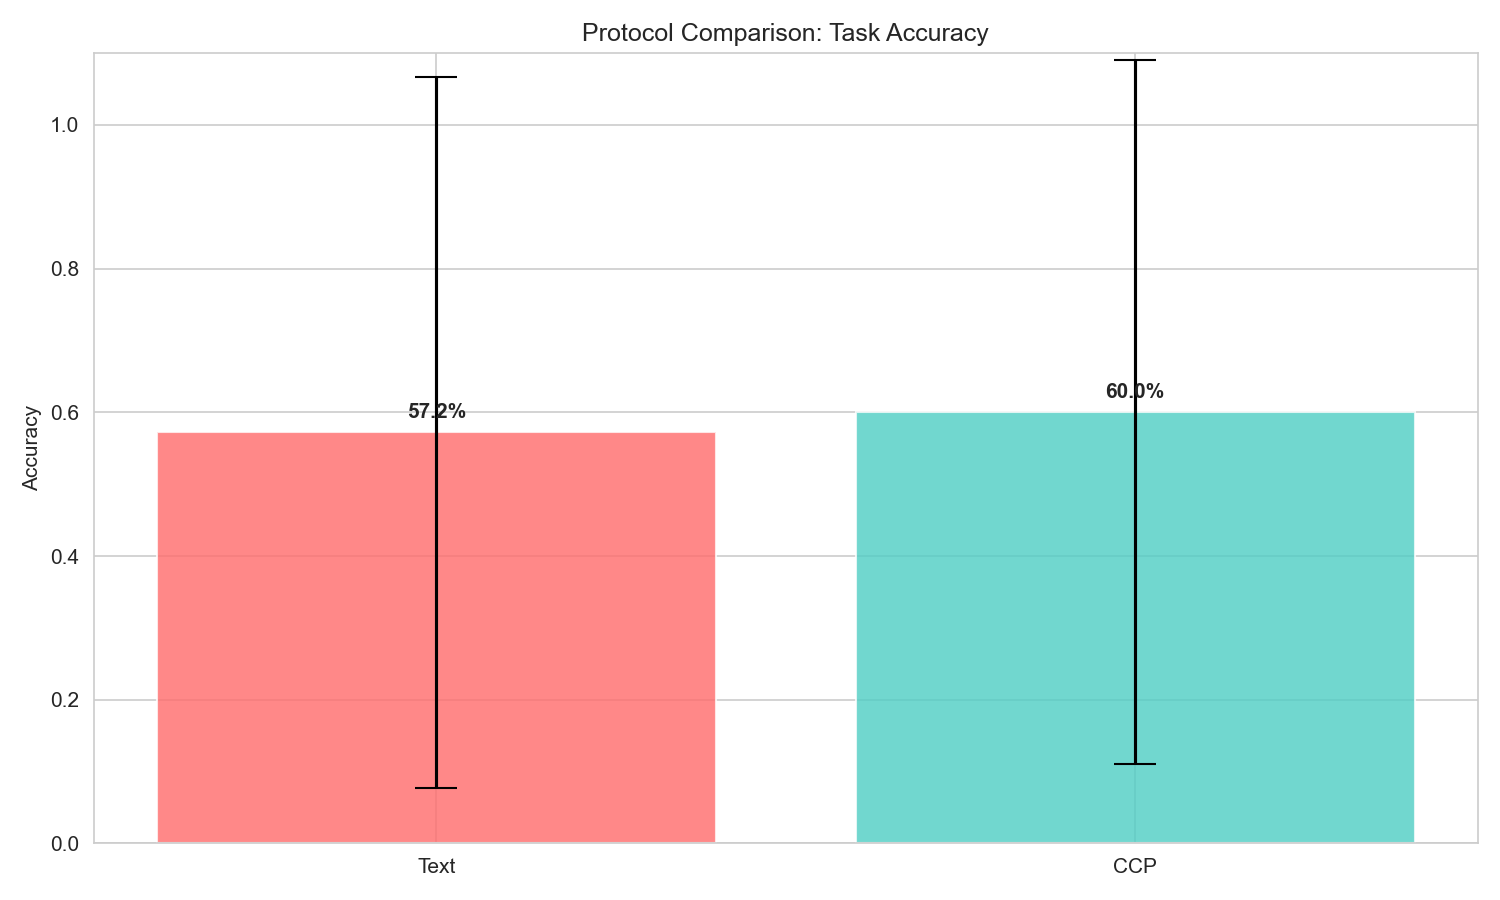
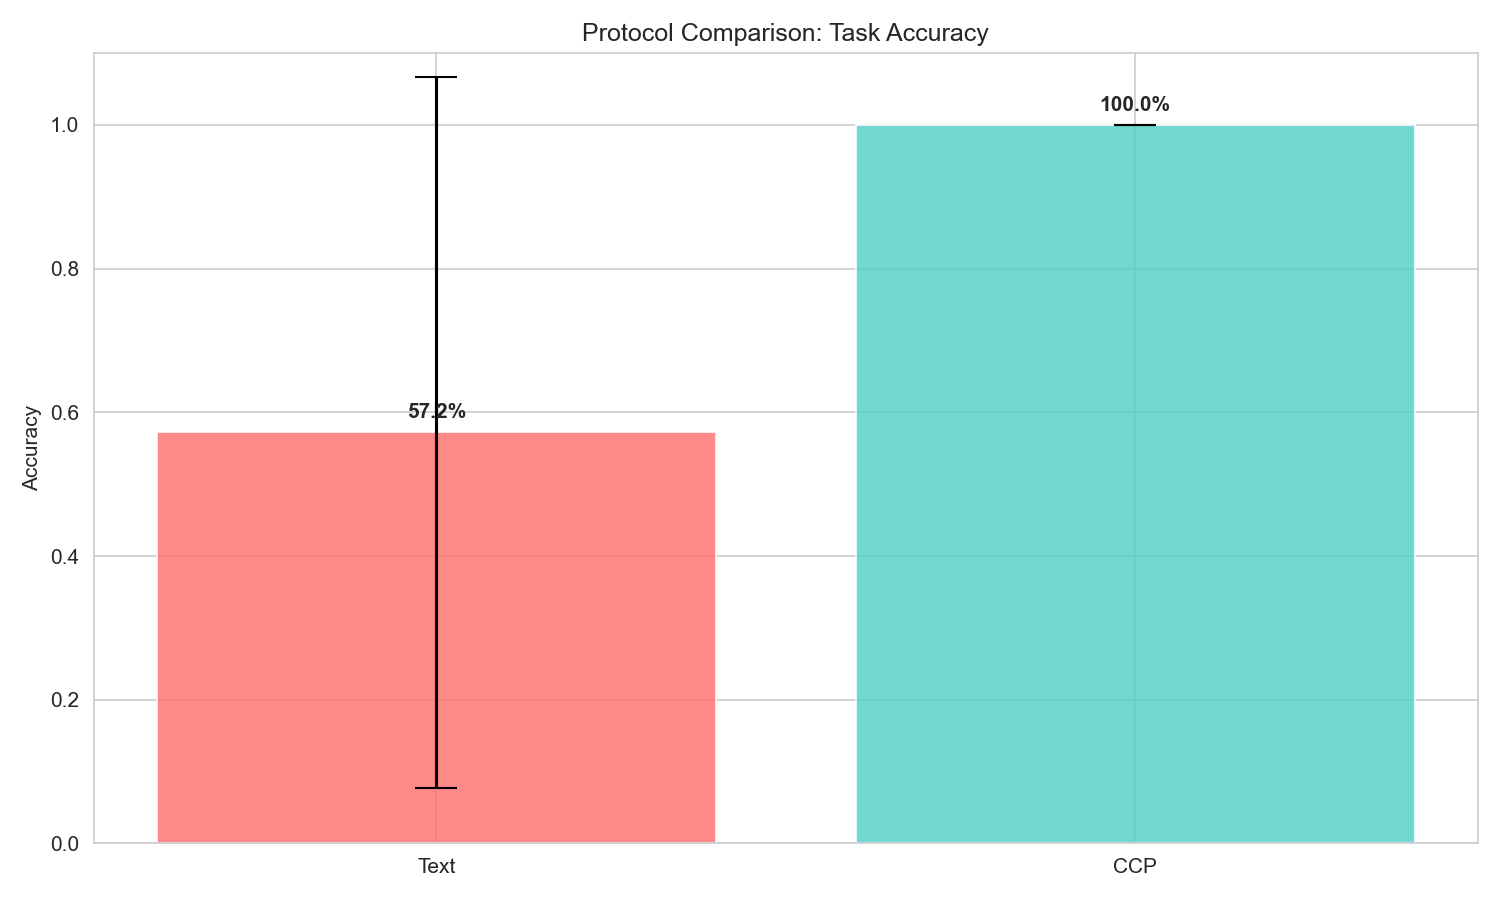
Refactor import statements to handle ImportError for protocols and core modules; update dataset management and experiment runner logic.

Changed region(s): [[0.552, 0.0622, 0.9507, 0.4667]]

diff --git a/ccp_a2a_thesis/agents/agent_c.py b/ccp_a2a_thesis/agents/agent_c.py
@@ -1,6 +1,9 @@
-from typing import Dict, Any, List
+from typing import Dict, Any
 from .base_agent import BaseAgent
-from protocols.fuzzy_matcher import FuzzyConstraintMatcher
+try:
+    from ..protocols.fuzzy_matcher import FuzzyConstraintMatcher
+except ImportError:
+    from protocols.fuzzy_matcher import FuzzyConstraintMatcher
 
 class AgentC(BaseAgent):
     """Final agent that produces output and validates constraints"""
@@ -41,7 +44,7 @@ class AgentC(BaseAgent):
             "semantic_matching_used": True  # Flag for fairness
         }
     
-    
+    def _process_ccp(self, payload: Any) -> Dict[str, Any]:
         """Process structured CCP input"""
         # Handle different possible payload structures
         if isinstance(payload, str):
@@ -49,8 +52,11 @@ class AgentC(BaseAgent):
             import json
             try:
                 payload = json.loads(payload)
-            except:
+            except json.JSONDecodeError:
                 return self._process_text(payload)
+
+        if not isinstance(payload, dict):
+            return self._process_text(str(payload))
         
         # Extract constraints from different possible locations
         detected = {
@@ -105,19 +111,19 @@ class AgentC(BaseAgent):
         constraints = payload.get("constraints", [])
         if isinstance(constraints, list):
             for constraint in constraints:
-                constraint_lower = str(constraint).lower()
-                if "vegetarian" in constraint_lower:
-                    detected["vegetarian"] = True
-                if "peanut" in constraint_lower or "nut" in constraint_lower:
-                    detected["peanut_allergy"] = True
-                if "window" in constraint_lower and "seat" in constraint_lower:
-                    detected["window_seat"] = True
-                if "knee" in constraint_lower:
-                    detected["knee_injury"] = True
-                if "game" in constraint_lower:
-                    detected["gaming"] = True
-                if "food" in constraint_lower:
-                    detected["food_interest"] = True
+                self._detect_from_text(str(constraint), detected)
+
+        # Check extensible context entries used for open-world constraints
+        extended_context = payload.get("extended_context", [])
+        if isinstance(extended_context, list):
+            for entry in extended_context:
+                if isinstance(entry, dict):
+                    self._detect_from_text(
+                        f"{entry.get('key', '')}: {entry.get('value', '')}",
+                        detected
+                    )
+                else:
+                    self._detect_from_text(str(entry), detected)
         
         # Also check the request field
         request = payload.get("request", "")
@@ -138,6 +144,22 @@ class AgentC(BaseAgent):
             "protocol": "ccp",
             "original_payload": payload
         }
+
+    def _detect_from_text(self, text: str, detected: Dict[str, bool]) -> None:
+        """Update detection flags from a compact structured text fragment."""
+        text_lower = text.lower()
+        if "vegetarian" in text_lower:
+            detected["vegetarian"] = True
+        if "peanut" in text_lower or "nut" in text_lower:
+            detected["peanut_allergy"] = True
+        if "window" in text_lower and "seat" in text_lower:
+            detected["window_seat"] = True
+        if "knee" in text_lower:
+            detected["knee_injury"] = True
+        if "game" in text_lower or "gaming" in text_lower:
+            detected["gaming"] = True
+        if "food" in text_lower or "cuisine" in text_lower:
+            detected["food_interest"] = True
     
     def _generate_response(self, detected: Dict, protocol: str) -> str:
         """Generate final response based on detected constraints"""

diff --git a/ccp_a2a_thesis/experiments/runner.py b/ccp_a2a_thesis/experiments/runner.py
@@ -2,11 +2,18 @@
 from typing import Dict, List, Any
 import random
 from tqdm import tqdm
-from agents import AgentA, AgentB, AgentC
-from core.metrics import MetricsCalculator
-from core.validator import OutputValidator
-from experiments.dataset import ExperimentDataset
-from config import NUM_TRIALS, SEED
+try:
+    from ..agents import AgentA, AgentB, AgentC
+    from ..core.metrics import MetricsCalculator
+    from ..core.validator import OutputValidator
+    from .dataset import ExperimentDataset
+    from ..config import NUM_TRIALS, SEED
+except ImportError:
+    from agents import AgentA, AgentB, AgentC
+    from core.metrics import MetricsCalculator
+    from core.validator import OutputValidator
+    from experiments.dataset import ExperimentDataset
+    from config import NUM_TRIALS, SEED
 
 class ExperimentRunner:
     """Orchestrates the entire experiment"""

diff --git a/ccp_a2a_thesis/agents/agent_a.py b/ccp_a2a_thesis/agents/agent_a.py
@@ -1,8 +1,12 @@
 
 from typing import Dict, Any
 from .base_agent import BaseAgent
-from protocols.text_protocol import TextBuilder
-from protocols.ccp_protocol import CCPBuilder
+try:
+    from ..protocols.text_protocol import TextBuilder
+    from ..protocols.ccp_protocol import CCPBuilder
+except ImportError:
+    from protocols.text_protocol import TextBuilder
+    from protocols.ccp_protocol import CCPBuilder
 
 class AgentA(BaseAgent):
     """First agent that receives user request and formats it for next agent"""

diff --git a/ccp_a2a_thesis/agents/agent_b.py b/ccp_a2a_thesis/agents/agent_b.py
@@ -1,7 +1,10 @@
 
 from typing import Any, Dict, Optional, Union
 from .base_agent import BaseAgent
-from protocols.drift_simulator import TextDriftSimulator, CCPDriftSimulator
+try:
+    from ..protocols.drift_simulator import TextDriftSimulator, CCPDriftSimulator
+except ImportError:
+    from protocols.drift_simulator import TextDriftSimulator, CCPDriftSimulator
 
 class AgentB(BaseAgent):
     """Middle agent that introduces context drift based on protocol"""

diff --git a/ccp_a2a_thesis/experiments/dataset.py b/ccp_a2a_thesis/experiments/dataset.py
@@ -1,6 +1,9 @@
 """Experiment dataset management"""
 from typing import List, Dict
-from core.task import TaskManager, Task
+try:
+    from ..core.task import TaskManager, Task
+except ImportError:
+    from core.task import TaskManager, Task
 
 class ExperimentDataset:
     """Manages the experimental dataset"""